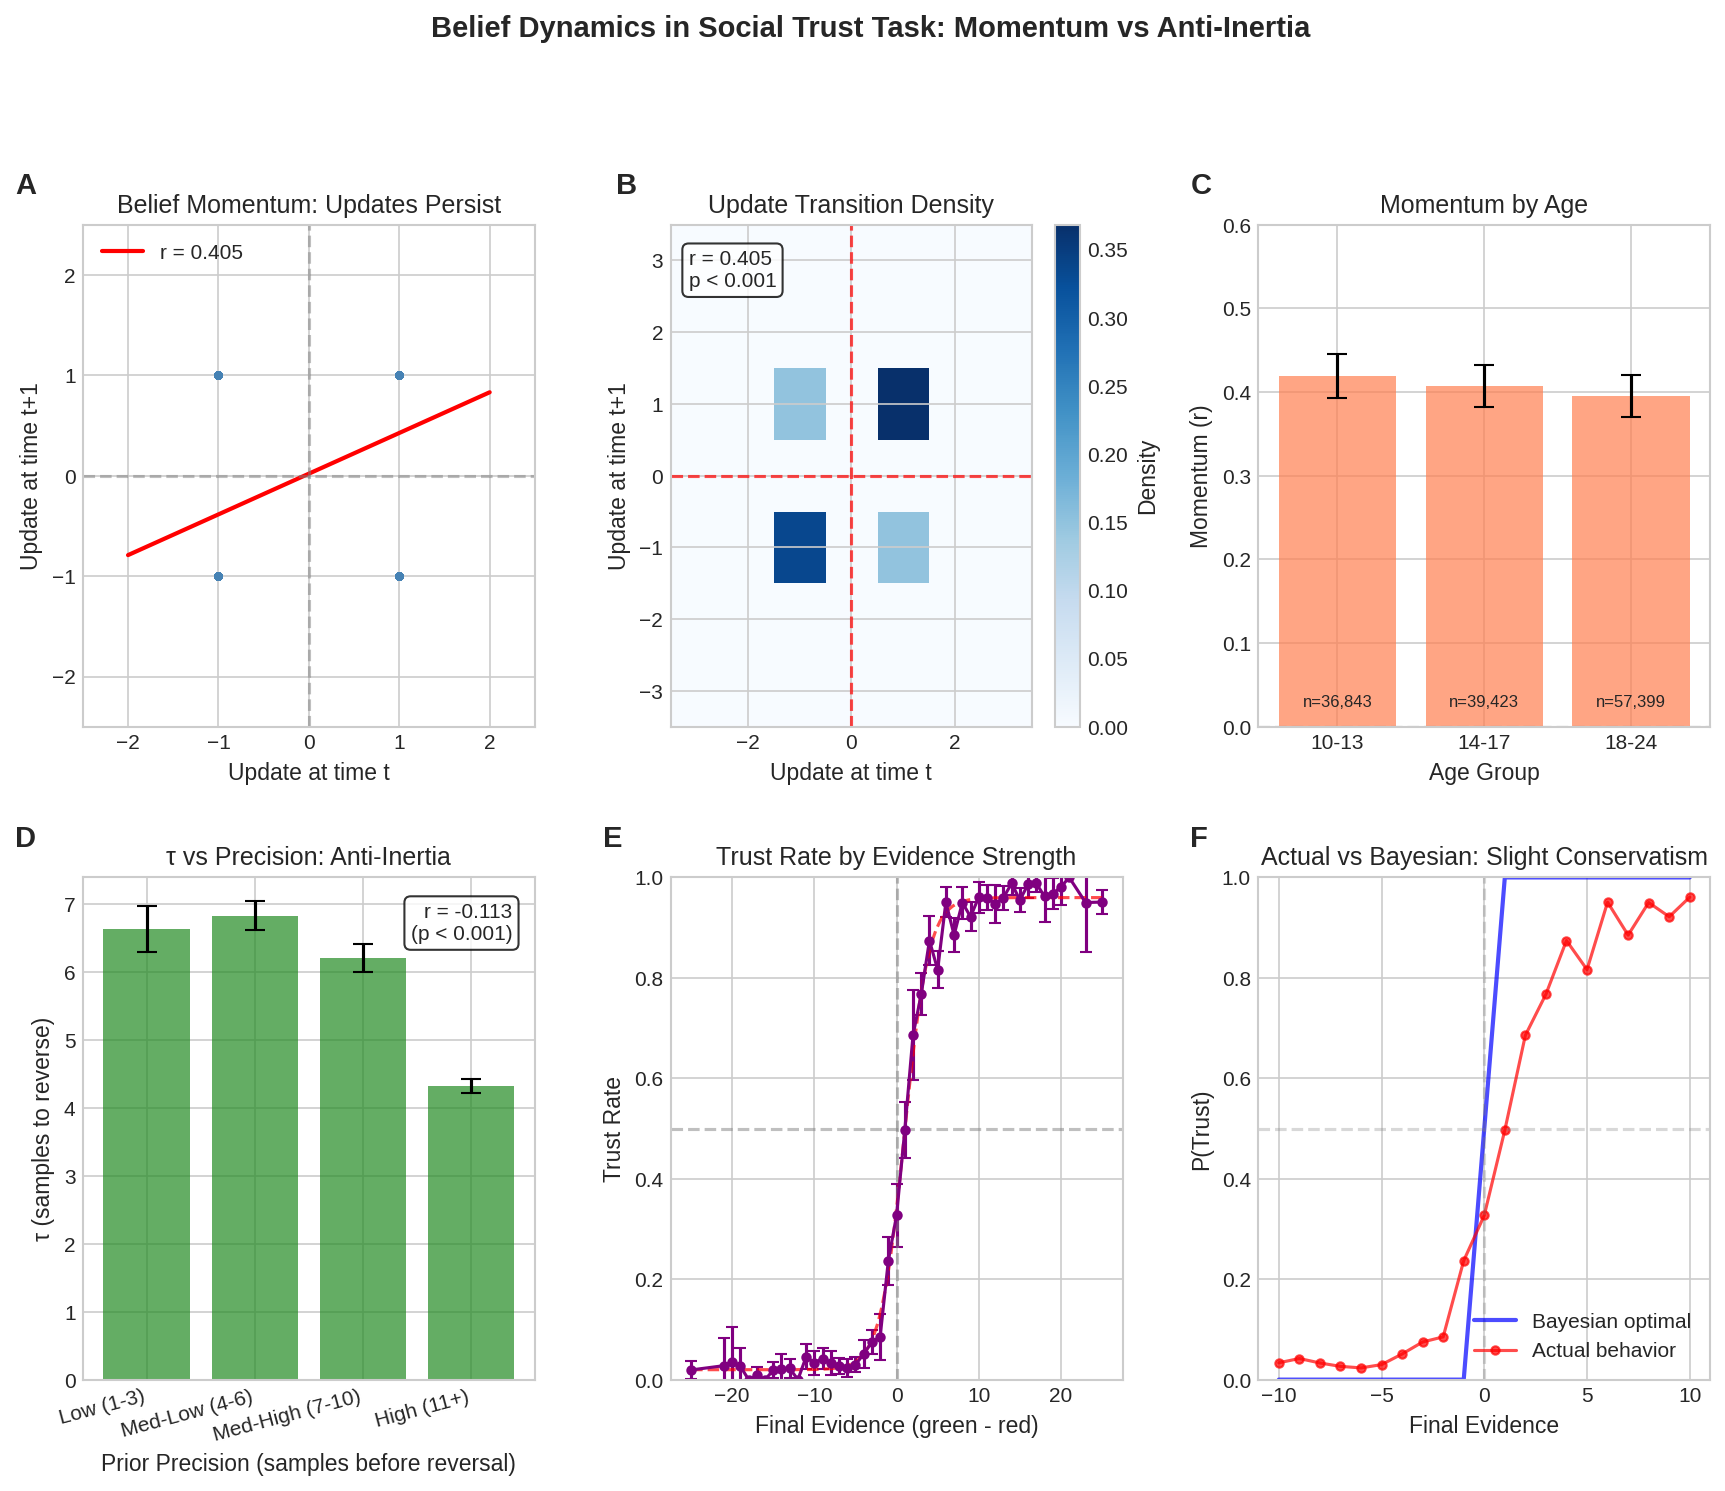
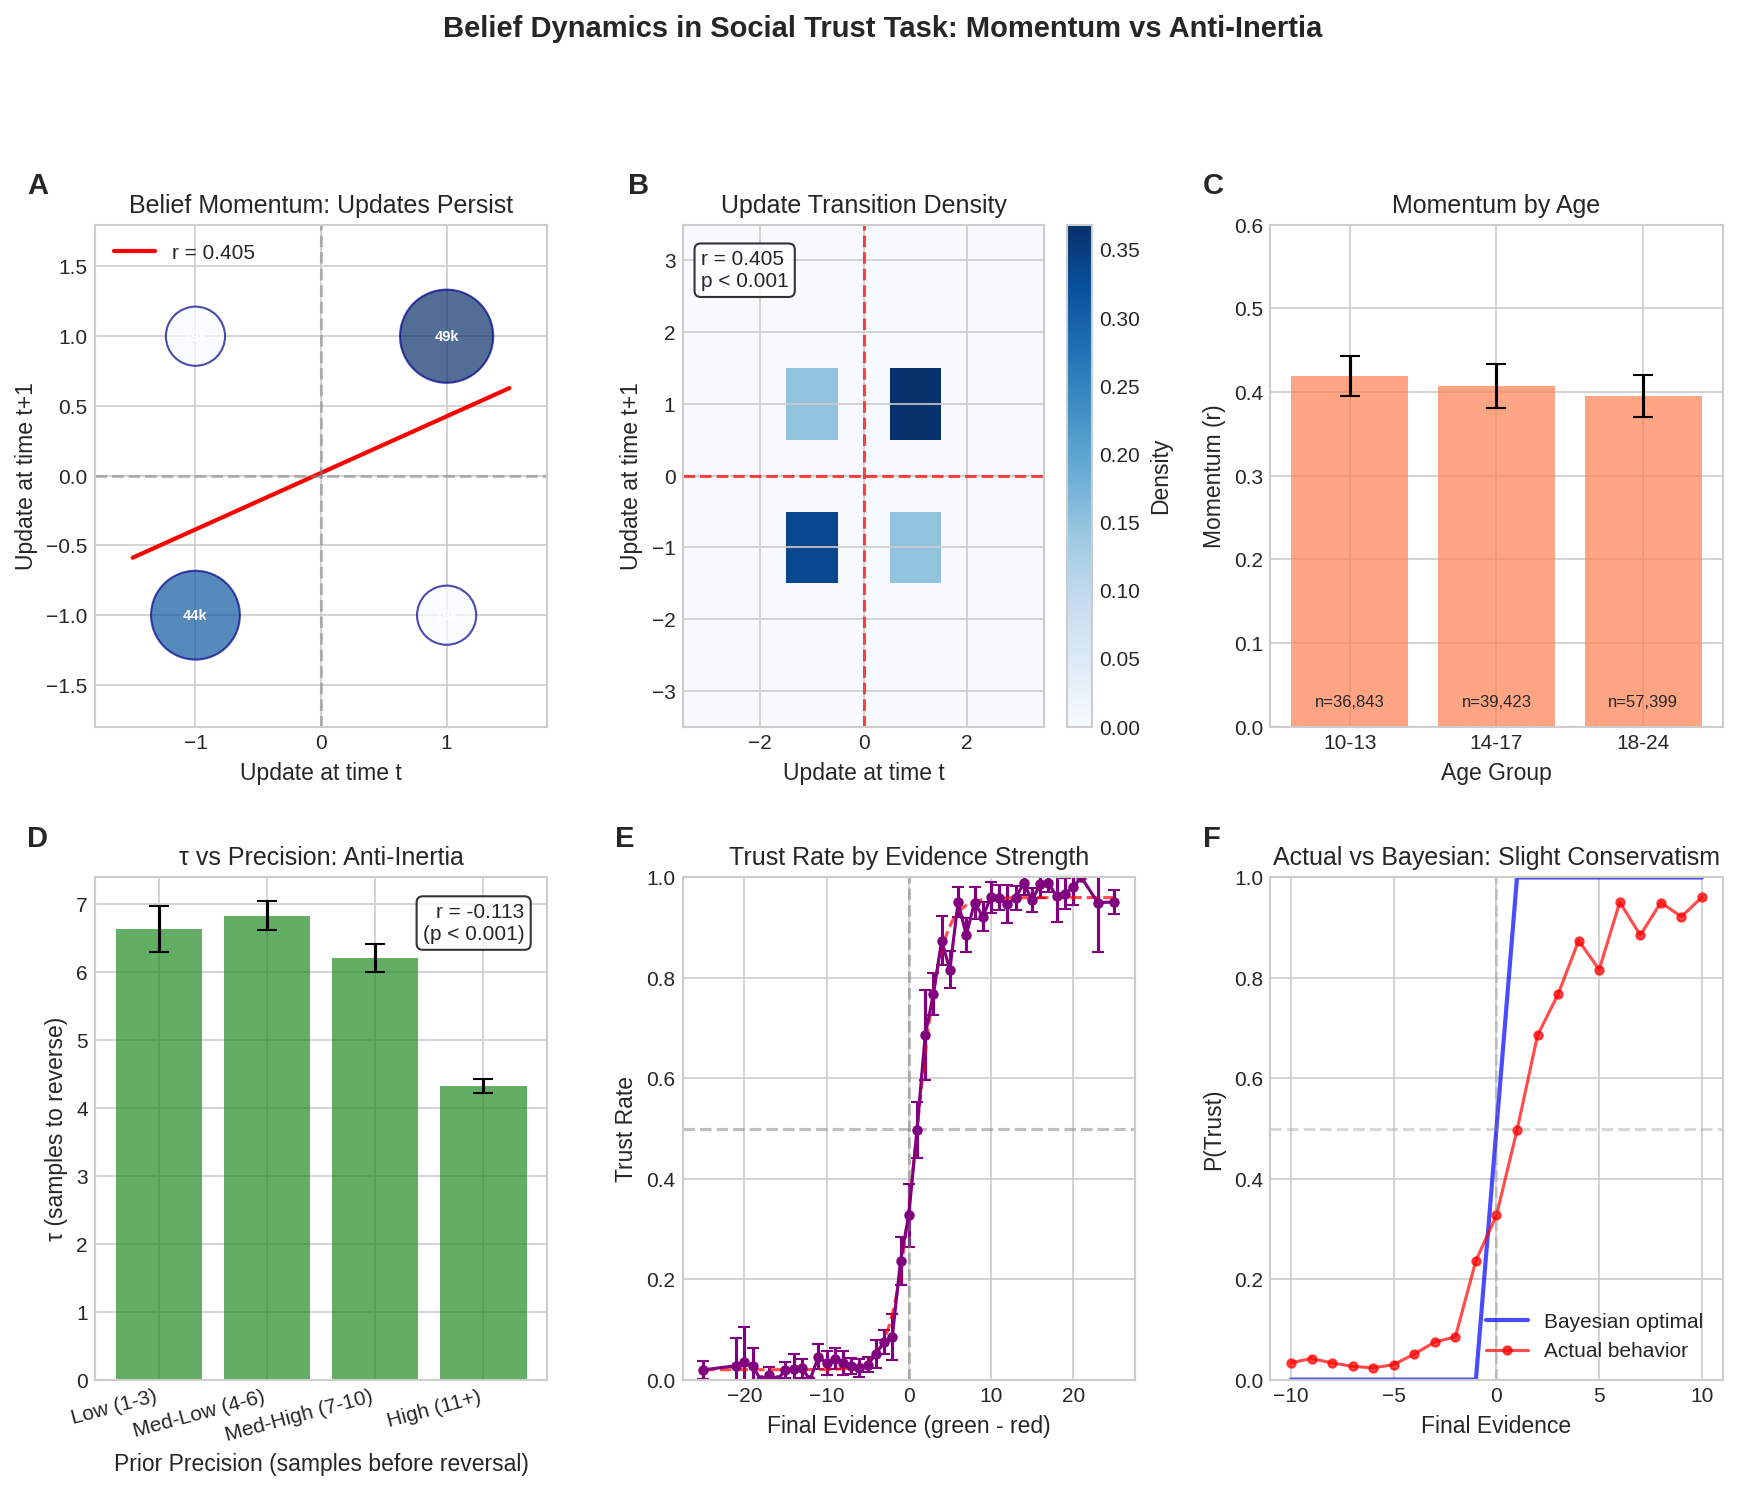
Fix momentum scatter to show bubble sizes for discrete update counts

diff --git a/empirical/anchoring/visualize_momentum.py b/empirical/anchoring/visualize_momentum.py
@@ -147,16 +147,30 @@ def extract_trial_data(df):
 
 
 def plot_momentum_scatter(mom_df, ax):
-    """Scatter plot of update[t] vs update[t+1]."""
-    # Subsample for visualization
-    sample = mom_df.sample(n=min(5000, len(mom_df)), random_state=42)
+    """Scatter plot of update[t] vs update[t+1] - using bubble sizes for counts."""
+    # Count occurrences at each (update_t, update_t1) pair
+    counts = mom_df.groupby(['update_t', 'update_t1']).size().reset_index(name='count')
 
-    ax.scatter(sample['update_t'], sample['update_t1'],
-               alpha=0.1, s=10, c='steelblue')
+    # Scale bubble sizes (sqrt for area scaling)
+    max_count = counts['count'].max()
+    sizes = (counts['count'] / max_count) * 2000  # Scale to reasonable size
+
+    # Color by count
+    scatter = ax.scatter(counts['update_t'], counts['update_t1'],
+                        s=sizes, c=counts['count'], cmap='Blues',
+                        alpha=0.7, edgecolors='darkblue', linewidths=1)
+
+    # Add count labels
+    for _, row in counts.iterrows():
+        if row['count'] > 1000:  # Only label large bubbles
+            ax.annotate(f"{row['count']//1000}k",
+                       (row['update_t'], row['update_t1']),
+                       ha='center', va='center', fontsize=7, color='white',
+                       fontweight='bold')
 
     # Fit line
     slope, intercept, r, p, se = stats.linregress(mom_df['update_t'], mom_df['update_t1'])
-    x_line = np.array([-2, 2])
+    x_line = np.array([-1.5, 1.5])
     ax.plot(x_line, intercept + slope * x_line, 'r-', linewidth=2,
             label=f'r = {r:.3f}')
 
@@ -167,8 +181,8 @@ def plot_momentum_scatter(mom_df, ax):
     ax.set_ylabel('Update at time t+1')
     ax.set_title('Belief Momentum: Updates Persist')
     ax.legend(loc='upper left')
-    ax.set_xlim(-2.5, 2.5)
-    ax.set_ylim(-2.5, 2.5)
+    ax.set_xlim(-1.8, 1.8)
+    ax.set_ylim(-1.8, 1.8)
 
 
 def plot_momentum_heatmap(mom_df, ax):
